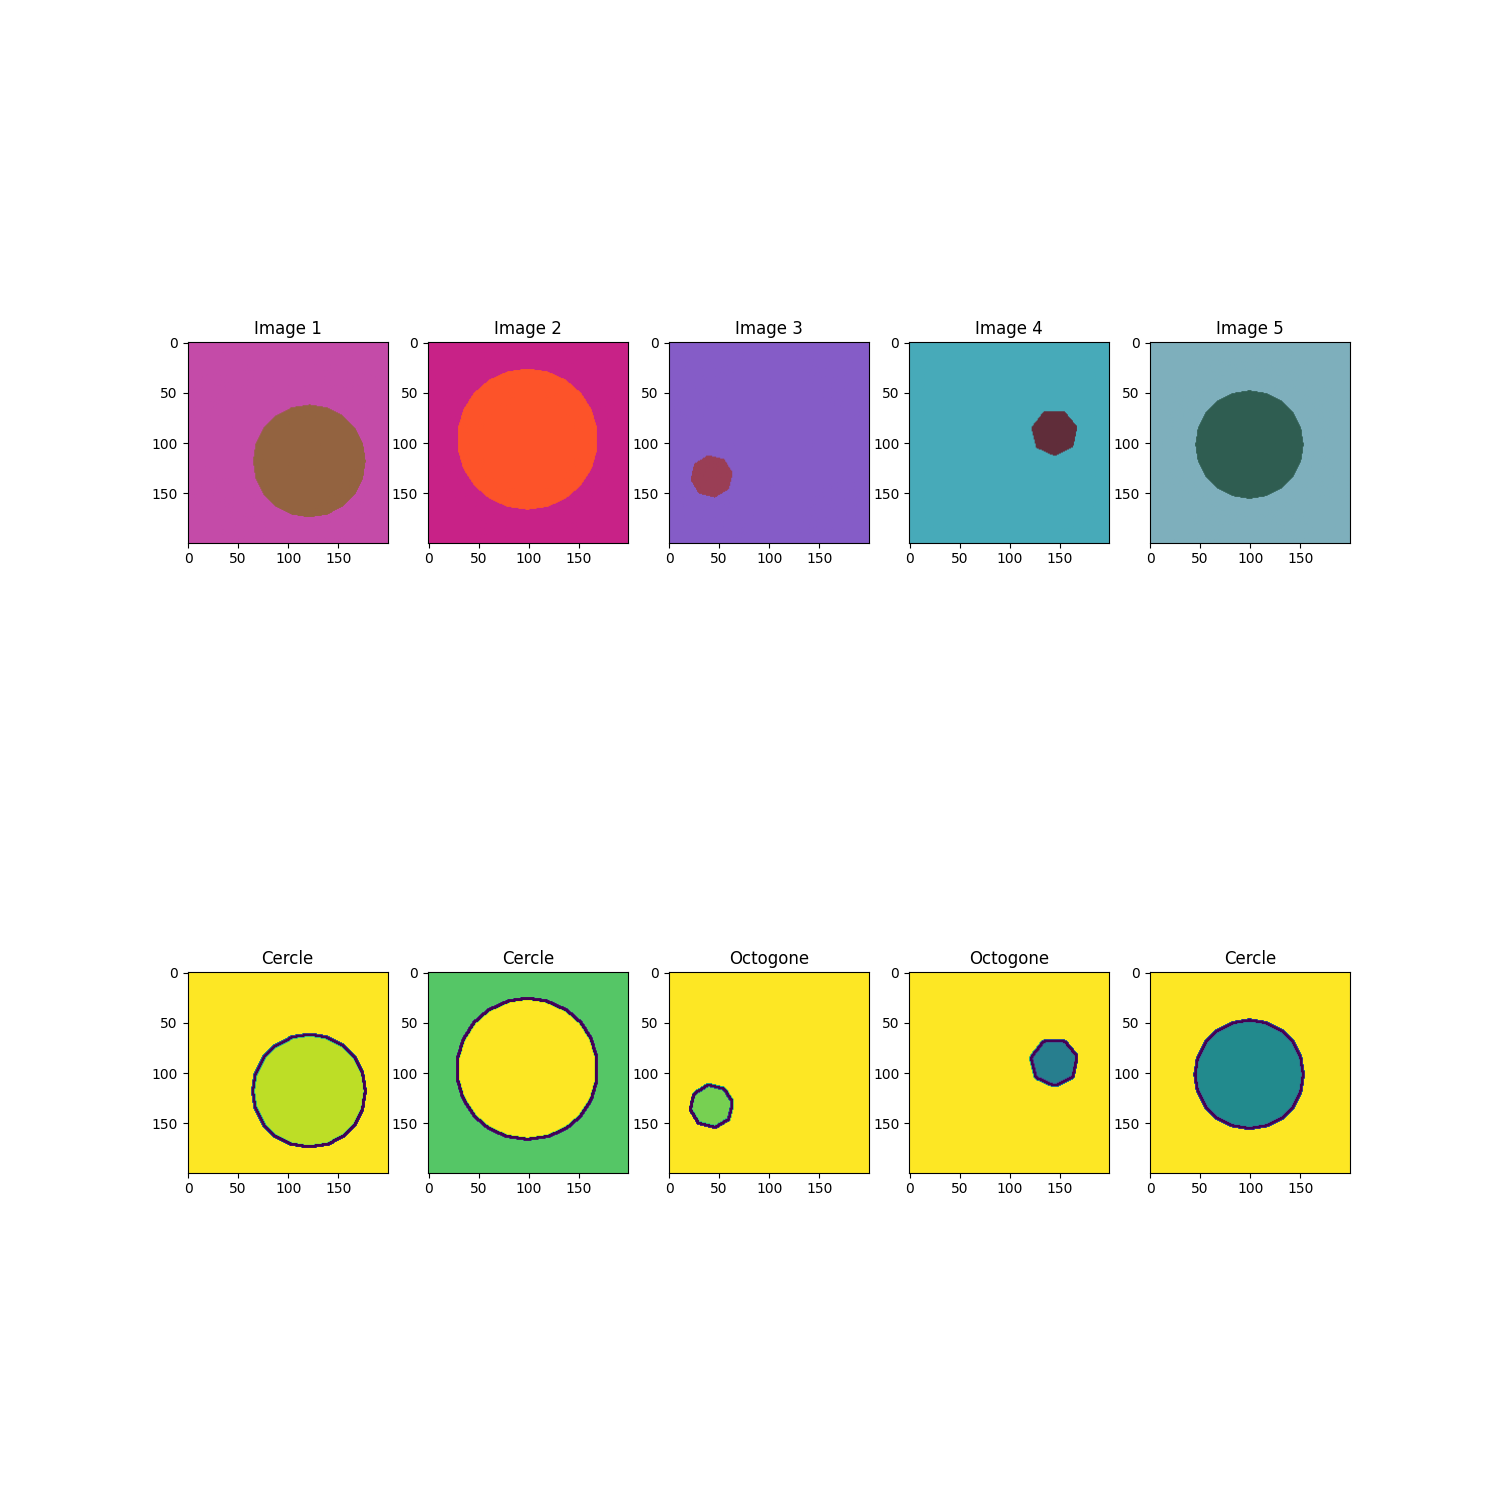
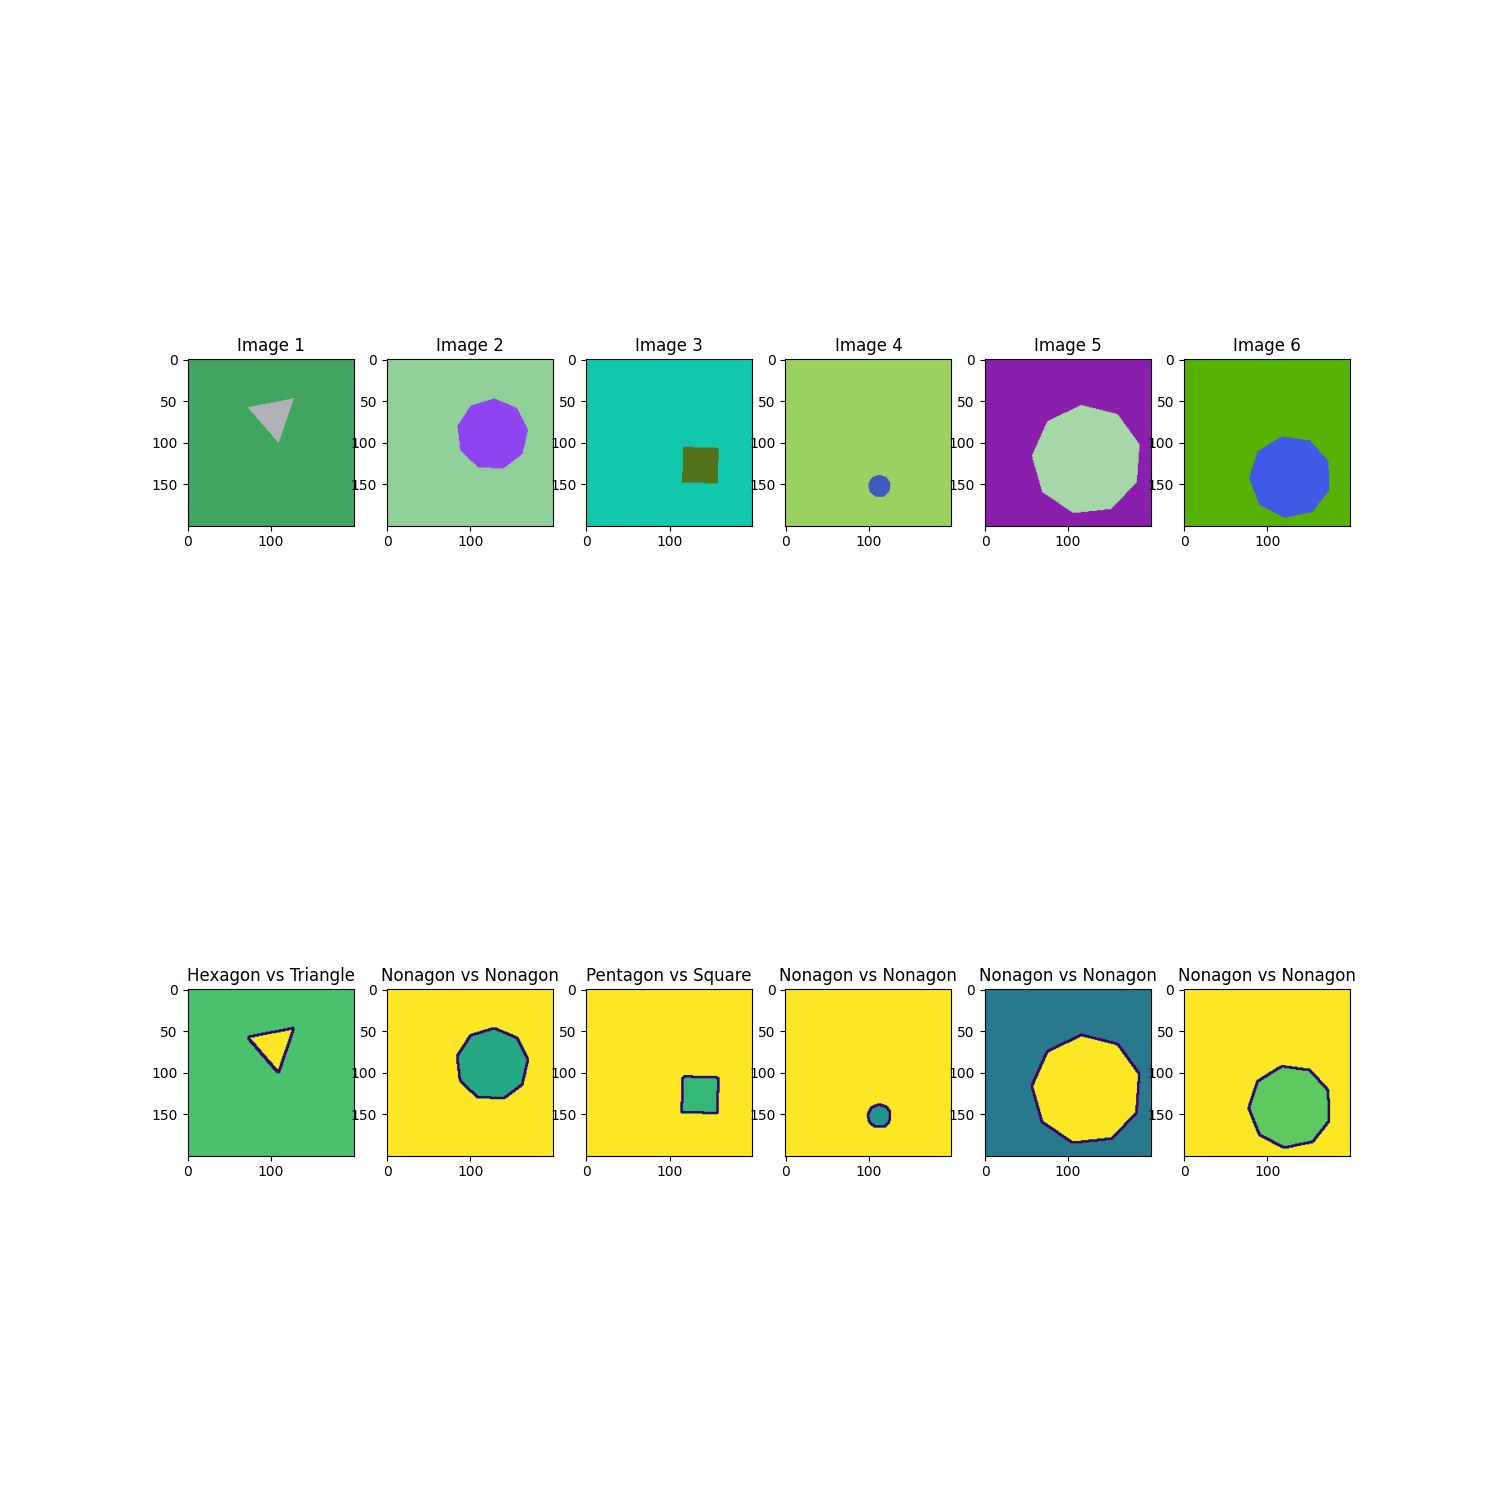
Code update

Changed region(s): [[0.092, 0.2147, 0.92, 0.368], [0.092, 0.6133, 0.92, 0.7973]]

diff --git a/soft/V2/Python/ShapeDetection/ShapeDetection.py b/soft/V2/Python/ShapeDetection/ShapeDetection.py
@@ -8,21 +8,22 @@ import argparse
 import os
 
 # Chemin d'accés au dossier contenant le dataset de formes
-img_folder=r'F:\ETML-ES\POBJ\2135_AnalysePicture\soft\V2\Shapes-Dataset\output'
+img_folder=r'F:\ETML-ES\POBJ\2135_AnalysePicture\soft\soft\V2\Shapes-Dataset\output'
 
 # Arguments
 parser = argparse.ArgumentParser()
-parser.add_argument('-Th','--T_upper', type=float, default=40, help="Valeur seuil supérieur dans le Seuil d'hystérésis")
-parser.add_argument('-Tl','--T_lower', type=float, default=20, help="Valeur seuil inférieur dans le Seuil d'hystérésis")
-parser.add_argument('-n','--nbImg', type=float, default=5, help="Nombre d'images a analyser")
+parser.add_argument('-A','--modeAff', type=bool, default=True, help="Active ou desactive le mode affichage des resultats")
+parser.add_argument('-Th','--T_upper', type=float, default=40, help="Valeur supérieur dans le Seuil d'hystérésis")
+parser.add_argument('-Tl','--T_lower', type=float, default=20, help="Valeur inférieur dans le Seuil d'hystérésis")
+parser.add_argument('-n','--nbImg', type=float, default=6, help="Nombre d'images a analyser")
 parser.add_argument('-b','--nbBatch', type=float, default=2, help='Nombre de batch de figures')
 args = parser.parse_args()
 
 # ------ Hyperparamètres------
 # Valeur seuil inférieure dans le Seuil d'hystérésis
-T_lower = args.T_lower
+T_lower = 10
 # Valeur seuil supérieur dans le Seuil d'hystérésis
-T_upper = args.T_lower
+T_upper = 50
 
 # ------ Parametres interface ------
 # Nombre de batch de figures
@@ -30,14 +31,24 @@ nbBatch = args.nbBatch
 # Nombre d'images a analyser
 nbImg = args.nbImg
 # Noms des formes selon les cotés
-shapes = np.array(["Rien", "Trait", "Angle", "Triangle","Quadrillatere","Pentagone",
-                    "Hexagone", "Heptagone", "Octogone", "Nonagone", "Etoile"])
+shapes = np.array(["Nothing", "Line", "Angle", "Triangle","Square","Pentagon",
+                    "Hexagon", "Heptagon", "Octagon", "Nonagon", "Star"])
+# Si le mdoe affichage est activé
+modeAffichage = args.modeAff
 
+# Moyenne de succés de tous les batch
+MoyenneBatch = 0
 for b in range(nbBatch):
     # Dimension des figures affichées
     plt.figure(figsize=(15,15))
 
     # Boucle pour analyse du nombre d'images
+    i = 0
+    # Calcul moyenn succés
+    Moyenne = 0
+    # Nb images ratées
+    missed = 0
+    # Tant que pas toutes les images analysées
     for i in range(nbImg):
         # Choix de l'image aléatoire
         file = random.choice(os.listdir(img_folder))
@@ -52,29 +63,53 @@ for b in range(nbBatch):
         plt.imshow(img)
 
         # Charge la meme image dans une variable mais en 2 couleurs
-        grayscale = cv2.imread(image_path,0)
+        #grayscale = cv2.imread(image_path,0)
+        grayscale = cv2.cvtColor(np.float32(img), cv2.COLOR_RGB2GRAY)
         # Utilisation d'une fonction pour détécter les bords de l'images
-        edged = cv2.Canny(grayscale, T_lower, T_upper)
+        edged = cv2.Canny((grayscale*255).astype(np.uint8), T_lower, T_upper)
         # Trouve le nombre de contours et les charges dans une variable contenant leurs caractéristiques
         contours, hierarchy = cv2.findContours(edged, cv2.RETR_EXTERNAL, cv2.CHAIN_APPROX_NONE)
-        # Selectionne l'un des contours 
-        cnt = contours[0]
-        # Fait l'approximation de la forme du contour séléctionné
-        approx = cv2.approxPolyDP(cnt, 0.01 * cv2.arcLength(cnt, True), True)
-
-        # Détérmine le nom de la forme selon le nombre de cotés de la forme approximée
-        if(len(approx) < 11):
-            shape = shapes[len(approx)]
+        # Selectionne l'un des contours si contenu existant
+        if len(contours):
+            cnt = contours[0]
+            # Fait l'approximation de la forme du contour séléctionné
+            approx = cv2.approxPolyDP(cnt, 0.01 * cv2.arcLength(cnt, True), True)
+            # Détérmine le nom de la forme selon le nombre de cotés de la forme approximée
+            if(len(approx) < 11):
+                shape = shapes[len(approx)]
+            else:
+                shape = "Circle"
+            # Prépare l'emplacement de l'image dans la figure sur la 2ème colonnes
+            ax=plt.subplot(2,nbImg,i+1+nbImg)
+            # Récupère le nom réelle de la forme pour comparer
+            realShape = str(file).split('_') 
+            # Calcul moyenne de réussite
+            if shape == realShape[0]:
+                Moyenne += 1
+            ax.title.set_text(shape + " vs " + realShape[0])
+            # Ajoute l'image a la figure
+            plt.imshow(cv2.drawContours(grayscale, [cnt], 0, (0, 0, 255), 2))
         else:
-            shape = "Cercle"
+            # Si rien détécté, refait la manipulation
+            i -= 1
+            # Indique une image manquante
+            missed += 1
 
-        # Prépare l'emplacement de l'image dans la figure sur la 2ème colonnes
-        ax=plt.subplot(2,nbImg,i+1+nbImg)
-        ax.title.set_text(shape)
-        # Ajoute l'image a la figure
-        plt.imshow(cv2.drawContours(grayscale, [cnt], 0, (0, 0, 255), 2))
+    # Calcul la moyenne de succés de la figure actuelle
+    Moyenne = (Moyenne / (nbImg - missed))*100
+    # Additionne la moyenne du batch au total des batchs
+    MoyenneBatch += Moyenne
+    # Affiche le résultat
+    print("Moyenne figure " + str(b+1) + " : " + "%.2f" % Moyenne + " %")
+
 
     # Sauvegarde la figure
     plt.savefig("ShapesBatchN"+str(b+1))
     # Affiche la figure du batch
-    plt.show()
+    if modeAffichage:
+        plt.show()
+
+# Calcul la moyenne de succés de tous les batchs
+MoyenneBatch = (MoyenneBatch / nbBatch)
+# Affiche le résultat
+print("Moyenne totale : " + "%.2f" % MoyenneBatch + " %")
